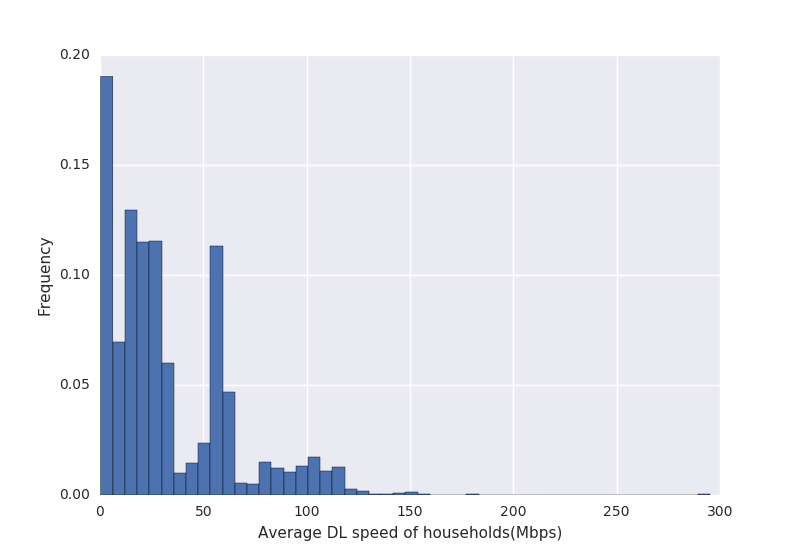
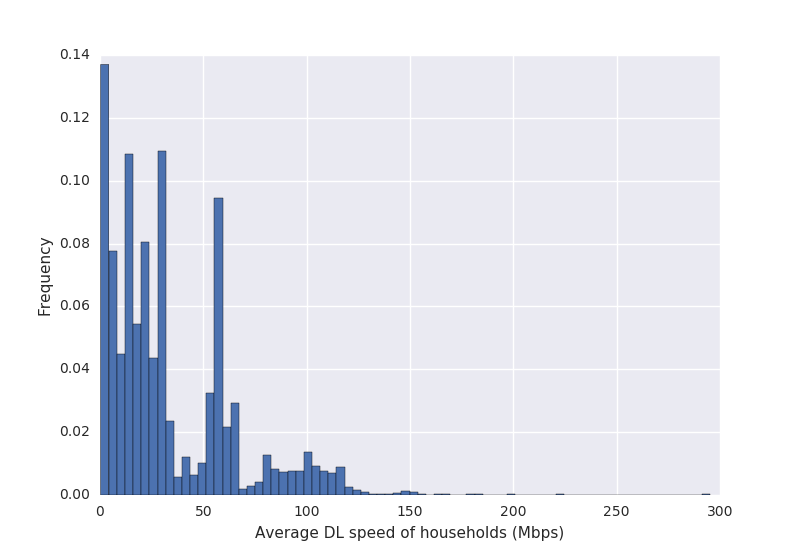
graphs update

Changed region(s): [[0.0625, 0.1236, 0.4688, 0.8964], [0.3125, 0.9582, 0.7188, 0.9891], [0.0938, 0.0927, 0.125, 0.1236]]

diff --git a/src/percentspeed.py b/src/percentspeed.py
@@ -13,92 +13,41 @@ pd.set_option('max_columns', 50)
 full = pd.read_csv('compactInfo.csv', error_bad_lines=False)[['unit_id','Speed_down','Speed_up']]
 #csvmspeeddown = pd.read_csv('dat/curr_httpgetmt.csv', error_bad_lines=False)[['unit_id','bytes_sec']]
 #csvmspeedup = pd.read_csv('dat/curr_httppostmt.csv', error_bad_lines=False)[['unit_id','bytes_sec']]
-unique = list(full.unit_id)
+
+full = full.dropna()
+uniquedown=list(full.unit_id)
+#print full[full.unit_id==6]["Speed_down"]*.0000080
+#downs = [float((full[full.unit_id == i]['Speed_down'])) * .0000080 for i in uniquedown]
 downs=[]
-tofive=[]
-toeight=[]
-tofifteen=[]
-plus=[]
-#print full[full.unit_id == 6]['Speed_down'][0]
-downs = [float((full[full.unit_id == i]['Speed_down']) * .0000080) for i in unique]
-#print downs
-for i in unique:
-	pass
-	'''#print "avg DL of house "+str(i)+" : "+str(downspeed)
-	if downspeed < 5:
-		tofive.append(downspeed)
-	elif downspeed < 15:
-		toeight.append(downspeed)
-	elif downspeed < 30:
-		tofifteen.append(downspeed)
-	elif downspeed >= 30:
-		plus.append(downspeed)
-total=float(len(uniquedown))
-percentfive = len(tofive)/total
-percenteight = len(toeight)/total
-percentfifteen = len(tofifteen)/total
-percentplus = len(plus)/total
-print "DL info:"
-print percentfive, percenteight, percentfifteen, percentplus
-'''
-#downplot = sns.barplot(x="speed range", y="percent", data=downs)
+for i in uniquedown:
+	splitup=full[full.unit_id == i]["Speed_down"].tolist()[0]
+	downs.append(splitup*.0000080)
 
-#def to_percent(y, position):
-    # Ignore the passed in position. This has the effect of scaling the default
-    # tick locations.
-#    s = str(100 * y)
 
-    # The percent symbol needs escaping in latex
-#    if matplotlib.rcParams['text.usetex'] is True:
-#        return s + r'$\%$'
-#    else:
-#        return s + '%'
-'''plt.xlabel('Average DL speed of households(Mbps)')
+plt.xlabel('Average DL speed of households (Mbps)')
 plt.ylabel('Frequency')
 weights = np.ones_like(downs)/len(downs)
-plt.hist(downs, bins=75, weights=weights)'''
-sns.distplot(downs, bins=20, kde=False)
-#formatter = FuncFormatter(to_percent)
-#plt.gca().yaxis.set_major_formatter(formatter)
-#plt.show()
-sns_plot.savefig("seaborntry.png")
-#plt.savefig("percentDL.png")
+plt.hist(downs, bins=75, weights=weights)
+#sns.distplot(downs, bins=20, kde=False)
+plt.show()
+#sns_plot.savefig("seaborntry.png")
+plt.savefig("percentDL.png")
 
 
+uniqueup=list(full.unit_id)#csvmspeedup.unit_id))
 ups=[]
-tofiveup=[]
-toeightup=[]
-tofifteenup=[]
-plusup=[]
 
-ups = [float((full[full == j]['Speed_up']) * .0000080) for j in unique]
+#ups = [float((full[full.unit_id == j]['Speed_up'][0])) * .0000080 for j in uniqueup]
+for i in uniqueup:
+        splitin=full[full.unit_id == i]["Speed_up"].tolist()[0]
+        ups.append(splitin*.0000080)
 
-for j in unique:
-	pass	
-	'''#print "avg UL of house "+str(j)+" : "+str(upspeed)
-	if upspeed < 5:
-                tofiveup.append(upspeed)
-        elif upspeed < 15:
-                toeightup.append(upspeed)
-        elif upspeed < 30:
-                tofifteenup.append(upspeed)
-        elif upspeed >= 30:
-                plusup.append(upspeed)
-total=float(len(uniqueup))
-percentfiveup = len(tofiveup)/total
-percenteightup = len(toeightup)/total
-percentfifteenup = len(tofifteenup)/total
-percentplusup = len(plusup)/total
-print "UL info:"
-print percentfiveup,percenteightup,percentfifteenup,percentplusup
-'''
 #upplot=sns.barplot(x="speed range", y="percent", data=ups)
-'''plt.xlabel('Average DL speed of households(Mbps)')
+plt.xlabel('Average DL speed of households(Mbps)')
 plt.ylabel('Frequency')
 weights = np.ones_like(ups)/len(ups)
 plt.hist(ups, bins=75, weights=weights)
-#formatter = FuncFormatter(to_percent)
 #plt.gca().yaxis.set_major_formatter(formatter)
 #plt.show()
-plt.savefig("percentUL.png")'''
-
+plt.savefig("percentUL.png")
+print "added"
